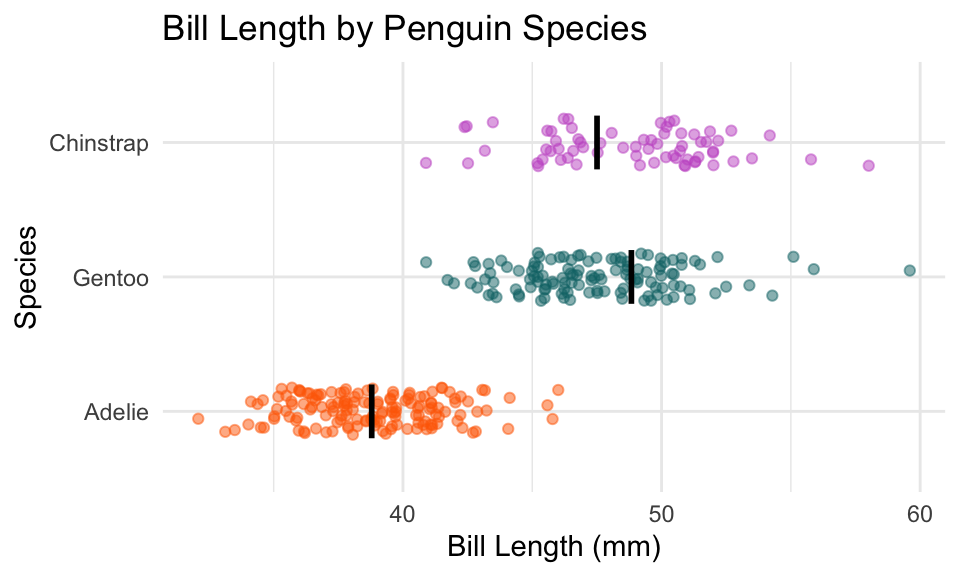
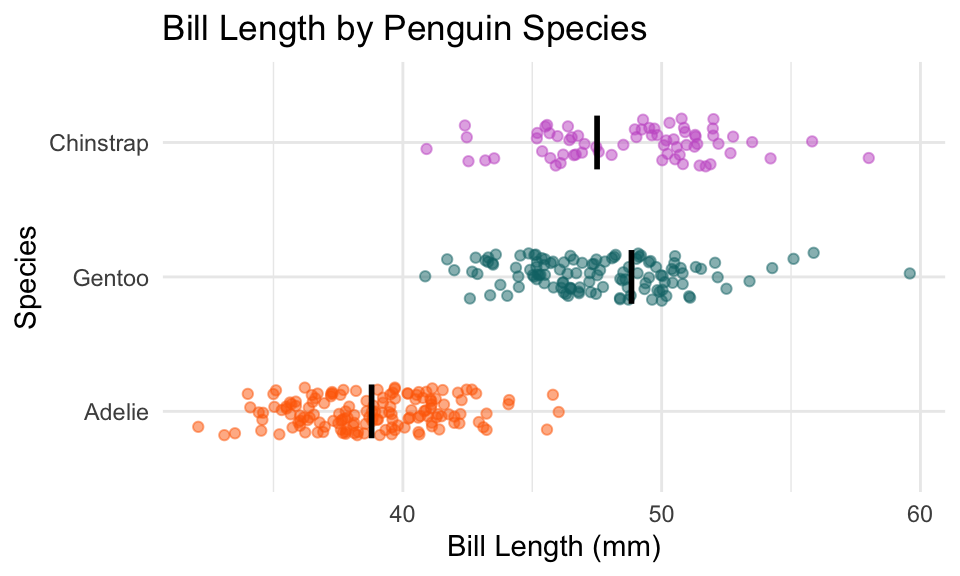
editing typo in wk6 slides, miniproject zip

diff --git a/week-6/slides_fall24.html b/week-6/slides_fall24.html
@@ -1285,7 +1285,7 @@ Dr.&nbsp;Kelly Boles
 </ul>
 <div class="sourceCode" id="cb26"><pre class="sourceCode numberSource r number-lines code-with-copy"><code class="sourceCode r"><span id="cb26-1"><a href="#cb26-1"></a>penguins <span class="sc">|&gt;</span></span>
 <span id="cb26-2"><a href="#cb26-2"></a>  <span class="fu">ggplot</span>(<span class="fu">aes</span>(<span class="at">x =</span> bill_length_mm, <span class="at">y =</span> flipper_length_mm)) <span class="sc">+</span></span>
-<span id="cb26-3"><a href="#cb26-3"></a>  <span class="fu">geom_point</span>(<span class="fu">aes</span>(<span class="at">color =</span> species, <span class="at">shape=</span>sex), <span class="at">alpha =</span> .<span class="dv">7</span>, <span class="at">size=</span><span class="dv">3</span>) <span class="sc">+</span></span>
+<span id="cb26-3"><a href="#cb26-3"></a>  <span class="fu">geom_point</span>(<span class="fu">aes</span>(<span class="at">color =</span> species, <span class="at">size=</span> body_mass_g), <span class="at">alpha =</span> .<span class="dv">7</span>) <span class="sc">+</span></span>
 <span id="cb26-4"><a href="#cb26-4"></a>  <span class="fu">scale_color_manual</span>(<span class="at">values =</span> <span class="fu">c</span>(<span class="st">"Chinstrap"</span> <span class="ot">=</span> <span class="st">"#C65CCB"</span>,</span>
 <span id="cb26-5"><a href="#cb26-5"></a>                               <span class="st">"Gentoo"</span> <span class="ot">=</span> <span class="st">"#077175"</span>,</span>
 <span id="cb26-6"><a href="#cb26-6"></a>                               <span class="st">"Adelie"</span> <span class="ot">=</span> <span class="st">"#FF6A01"</span>))<span class="sc">+</span></span>
